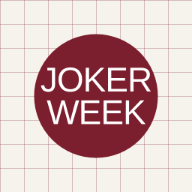
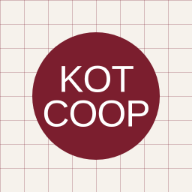
Name the cooperative KOTCOOP
Claude-Session: https://claude.ai/code/session_01W9f7gkFbkgMrxrAebYhxBn

Changed region(s): [[0.1562, 0.1562, 0.8438, 0.8438]]

diff --git a/index.html b/index.html
@@ -3,7 +3,7 @@
 <head>
 <meta charset="utf-8">
 <meta name="viewport" content="width=device-width, initial-scale=1, viewport-fit=cover">
-<title>Jokerweek Cooperative</title>
+<title>KOTCOOP</title>
 <meta name="claude:viewport-fit-sides" content="cover">
 <link rel="manifest" href="manifest.webmanifest">
 <link rel="icon" href="icon-192.png">
@@ -243,7 +243,7 @@ a.mapbox:active .maptag { background: var(--blue); color: #fff; border-color: va
 <div class="halo-glow" aria-hidden="true"></div><div class="halo" aria-hidden="true"></div>
 <header class="top">
   <div class="wrap">
-    <a class="logo" href="#manifesto" aria-label="Jokerweek home"><span>Joker</span><span>Week</span><span>Co-op 2027</span></a>
+    <a class="logo" href="#manifesto" aria-label="KOTCOOP home"><span>Kot</span><span>Coop</span><span>Jokerweek 2027</span></a>
     <nav class="tabs" aria-label="Sections">
       <a href="#manifesto">Manifesto</a>
       <a href="#schedule">Schedule</a>
@@ -264,7 +264,7 @@ a.mapbox:active .maptag { background: var(--blue); color: #fff; border-color: va
   <section class="view" id="v-manifesto">
     <svg class="thread-line" aria-hidden="true"><path id="thread-path"/></svg>
     <div class="titlebox">
-      <div class="box"><h1>Manifesto</h1><span class="sub">Jokerweek 2027 · 22.03 – 26.03 · Engineering Architecture UGent</span></div>
+      <div class="box"><h1>Manifesto</h1><span class="sub">KOTCOOP · Jokerweek 2027 · 22.03 – 26.03 · Engineering Architecture UGent</span></div>
       <a class="tex mapbox" href="#locations" aria-label="Map of Ghent: open locations"><span class="map" data-map="small"></span><span class="maptag">Locations →</span></a>
     </div>
     <article class="box manifesto">
@@ -272,7 +272,7 @@ a.mapbox:active .maptag { background: var(--blue); color: #fff; border-color: va
       <p class="reveal">For many, living in a student residence is an essential part of this experience. It is often their first home away from home, a place where friendships are formed and where they learn what it means to live independently.</p>
       <p class="reveal">Yet student housing is increasingly losing this potential. As <span class="hl">rents continue to rise</span>, finding an affordable room in Ghent is becoming more difficult. Student housing is increasingly treated as an investment opportunity, with the <span class="hl">financial interests of property owners</span> often <span class="hl">taking priority over the needs of students</span>. At the same time, students have little influence over the places they inhabit. Strict rental agreements and regulations leave <span class="hl">limited room for personalisation, creativity, or collective initiatives</span>. Although students spend an important part of their lives in these residences, they rarely have the opportunity to truly make them their own.</p>
       <p class="reveal">We believe <span class="hl">student housing should be more than simply a place to sleep</span> between lectures. It <span class="hl">should be an environment that encourages independence, personal development, and meaningful relationships. A place where students can feel at home and actively contribute to the community around them.</span></p>
-      <p class="turn reveal">This is why we want to introduce a different approach to student housing in Ghent: the student housing cooperative.</p>
+      <p class="turn reveal">This is why we want to introduce a different approach to student housing in Ghent: the student housing cooperative. We call it KOTCOOP.</p>
       <p class="reveal">A housing cooperative offers an alternative to the conventional relationship between landlord and tenant. Rather than being owned by an individual landlord or a profit-driven company, housing is <span class="hl">collectively owned or managed</span> through a cooperative organisation, the students themselves. Its purpose is <span class="hl">not to maximise financial returns</span>, but to provide <span class="hl">good and affordable housing for its members</span>, both <span class="hl">now and in the future</span>.</p>
       <p class="reveal">In a student housing cooperative, residents become members of an organisation in which they <span class="hl">have a meaningful voice</span>. They <span class="hl">participate in shaping</span> the way their residence functions and <span class="hl">share responsibility for its development</span>. Instead of simply following decisions made by an external property owner, students are encouraged to take part in the <span class="hl">management of their own living environment</span>.</p>
       <p class="reveal">The <span class="hl">financial structure</span> also works differently. The money residents contribute is primarily used to <span class="hl">cover the costs of the property</span>, <span class="hl">maintain and improve the building</span>, and ensure the <span class="hl">long-term continuity</span> of the cooperative. By prioritising these goals over private profit, the cooperative can work towards <span class="hl">keeping housing affordable over time</span>. This way we can stop following the trend of increasing rents.</p>
@@ -398,7 +398,7 @@ a.mapbox:active .maptag { background: var(--blue); color: #fff; border-color: va
 
 </main>
 
-<footer><div class="wrap"><div class="box"><span>Jokerweek 2027 · Ghent University</span><span>Draft · placeholders in dashed blue</span></div></div></footer>
+<footer><div class="wrap"><div class="box"><span>KOTCOOP · Jokerweek 2027 · Ghent University</span><span>Draft · placeholders in dashed blue</span></div></div></footer>
 
 <script>
 // ---- Schedule (edit here) ----

diff --git a/sw.js b/sw.js
@@ -1,5 +1,5 @@
 // Keeps the site usable offline: serve from cache, refresh the cache in the background.
-const CACHE = "jokerweek-v2";
+const CACHE = "jokerweek-v3";
 const FILES = ["./", "index.html", "manifest.webmanifest", "icon-192.png", "icon-512.png"];
 self.addEventListener("install", e => e.waitUntil(caches.open(CACHE).then(c => c.addAll(FILES))));
 self.addEventListener("activate", e => e.waitUntil(caches.keys().then(ks => Promise.all(ks.filter(k => k !== CACHE).map(k => caches.delete(k))))));

diff --git a/README.md b/README.md
@@ -1,4 +1,4 @@
-# Jokerweek 2027
+# KOTCOOP · Jokerweek 2027
 
 Website (installable web-app) for the Jokerweek of the master's students Engineering Architecture at UGent, 22–26 March 2027: a student housing cooperative in Ghent.
 
